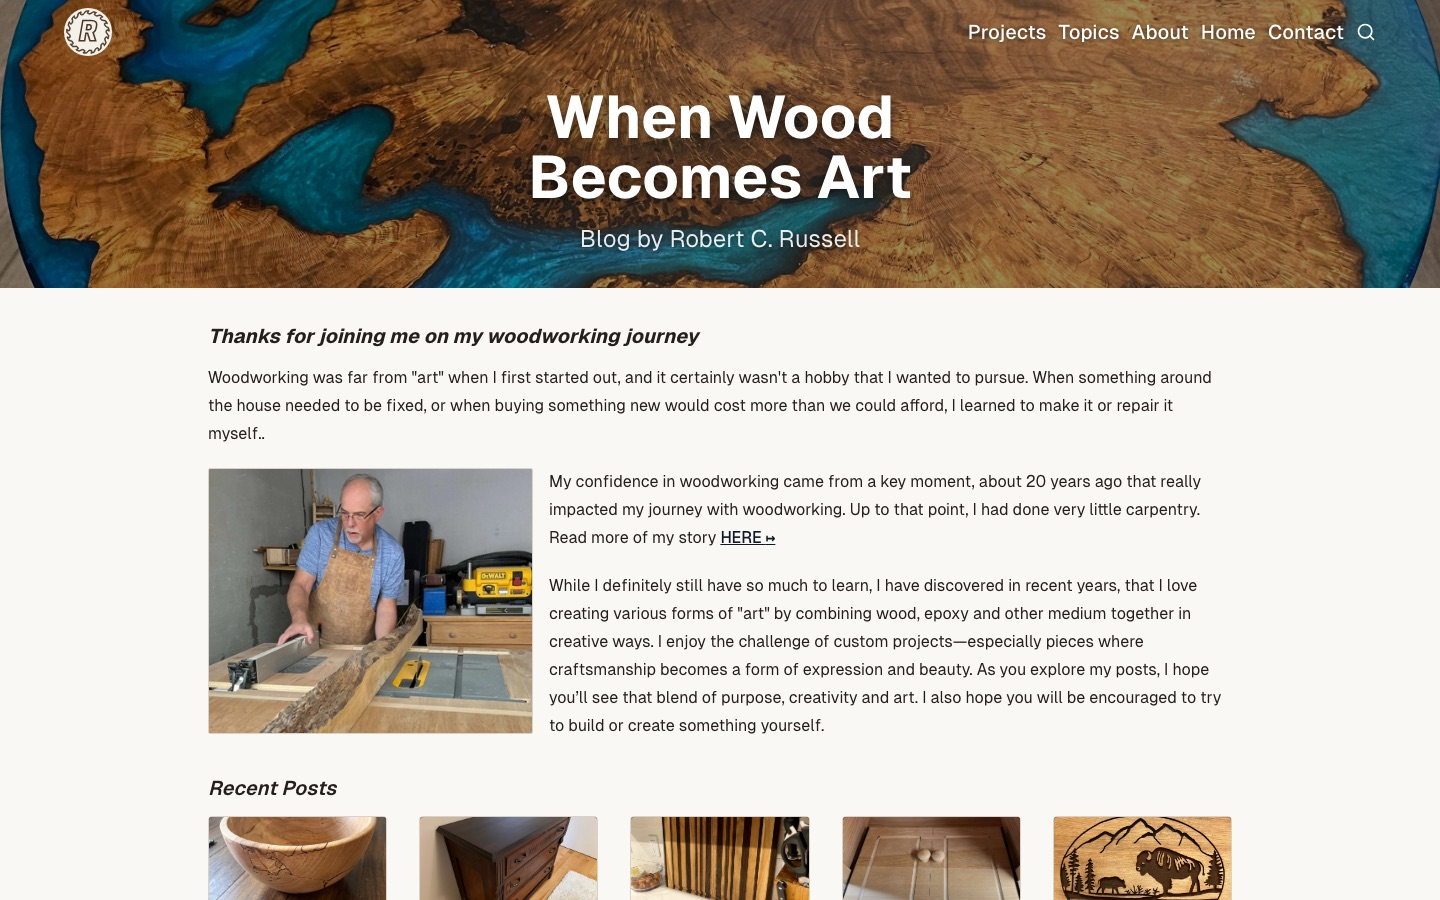
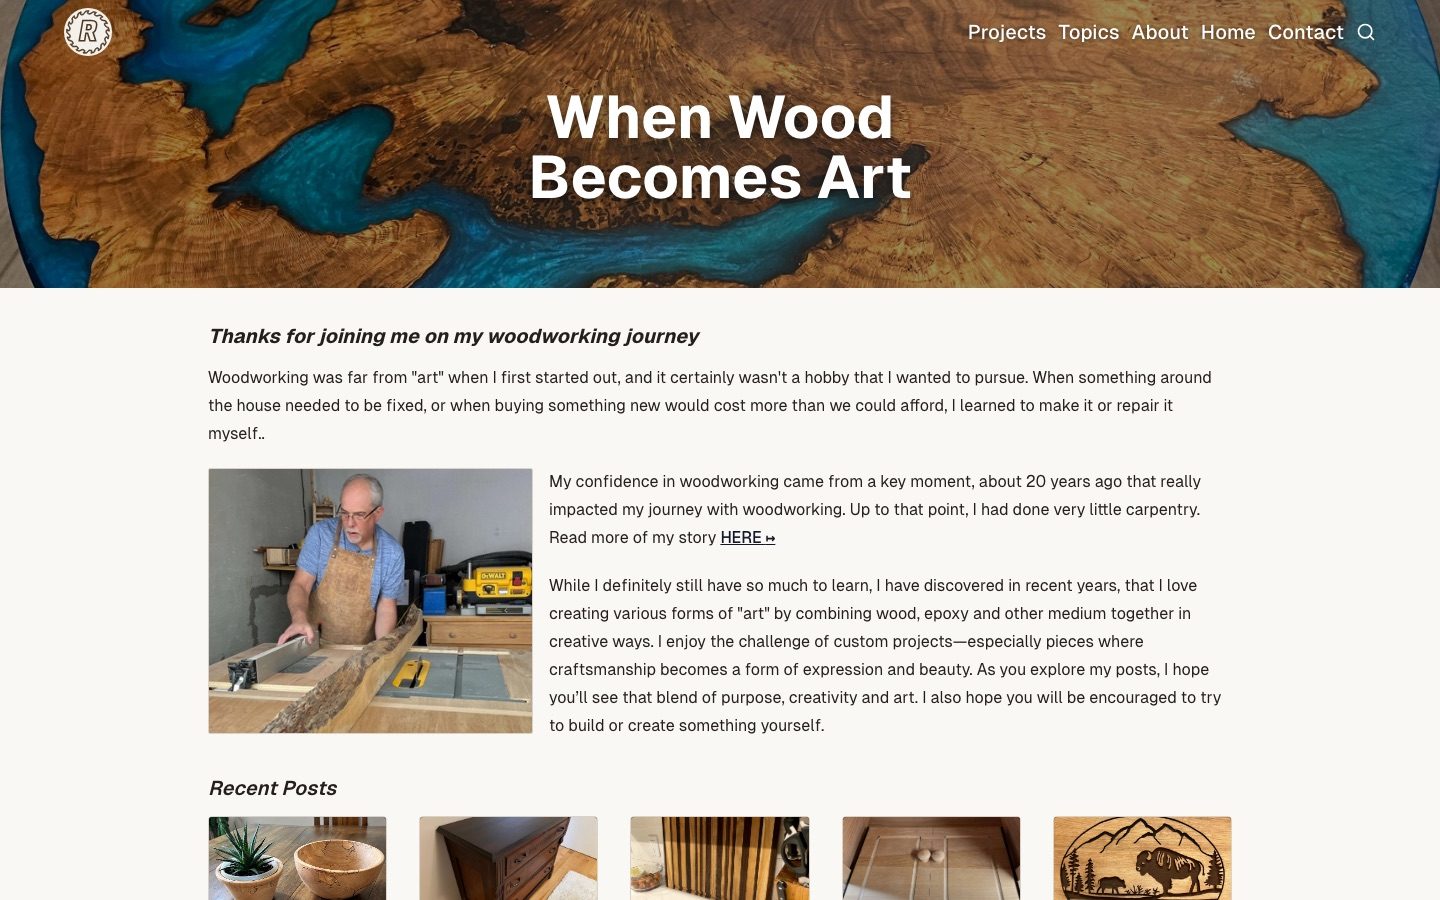
Remove the author's name from the repo (#4)
The site name now comes from NEXT_PUBLIC_SITE_NAME (set on Vercel, so
the live site is unchanged) and defaults to "Woodworking Blog". The
README no longer names him, and the screenshots were retaken without
the hero byline or the YouTube channel name.

Changed region(s): [[0.125, 0.9022, 0.2812, 1.0], [0.4062, 0.2489, 0.5938, 0.28]]

diff --git a/src/utilities/getSiteName.ts b/src/utilities/getSiteName.ts
@@ -1,1 +1,2 @@
-export const siteName = "Robert's Blog"
+// Set per deployment so the code doesn't carry the live site's name.
+export const siteName = process.env.NEXT_PUBLIC_SITE_NAME || 'Woodworking Blog'

diff --git a/README.md b/README.md
@@ -1,6 +1,6 @@
 # Woodworking Blog
 
-A woodworking blog I built for my dad, Robert C. Russell. He writes up his projects there: live-edge tables, turned bowls, epoxy river pieces, restored furniture. He runs the site himself through an admin panel, so he can publish a post with photo galleries and shop videos without touching code.
+A woodworking blog I built for my dad. He writes up his projects there: live-edge tables, turned bowls, epoxy river pieces, restored furniture. He runs the site himself through an admin panel, so he can publish a post with photo galleries and shop videos without touching code.
 
 **Live site:** https://robert-blog.vercel.app/home-page
 
@@ -21,7 +21,7 @@ The project started from Payload's official website template, which provides pag
 
 ### Image galleries with a lightbox
 
-![A post with a YouTube Short and an image gallery](docs/screenshots/post-gallery.jpg)
+![A post with an image gallery](docs/screenshots/post-gallery.jpg)
 
 The `ImageGallery` block ([`src/blocks/ImageGallery`](src/blocks/ImageGallery)) shows a set of photos as a 2–4 column grid or as a carousel, with a choice of aspect ratio, maximum size and optional captions. Clicking a photo opens a full-screen lightbox with an image counter, previous and next buttons, and keyboard navigation: ← and → move between photos and Esc closes it. Single images (`ImageBlock`) and images inside the `Layout` block open the same kind of full-screen view.
 
@@ -29,7 +29,7 @@ The `ImageGallery` block ([`src/blocks/ImageGallery`](src/blocks/ImageGallery)) 
 
 ### YouTube embeds
 
-Dad posts many of his projects as YouTube Shorts. The `YouTubeEmbed` block ([`src/blocks/YouTubeEmbed`](src/blocks/YouTubeEmbed)) takes a video ID and supports widescreen, standard, square and vertical (9:16, 4:5) aspect ratios. It also has options for autoplay, loop, mute, controls, related videos, and start and end times. The `Layout` block places a video, an image or rich text side by side in columns, which gives the video-beside-text layout in the screenshot above.
+My dad posts many of his projects as YouTube Shorts. The `YouTubeEmbed` block ([`src/blocks/YouTubeEmbed`](src/blocks/YouTubeEmbed)) takes a video ID and supports widescreen, standard, square and vertical (9:16, 4:5) aspect ratios. It also has options for autoplay, loop, mute, controls, related videos, and start and end times. The `Layout` block places a video, an image or rich text side by side in columns, so a Short can sit beside the write-up.
 
 ### A media manager that checks usage before deleting
 
